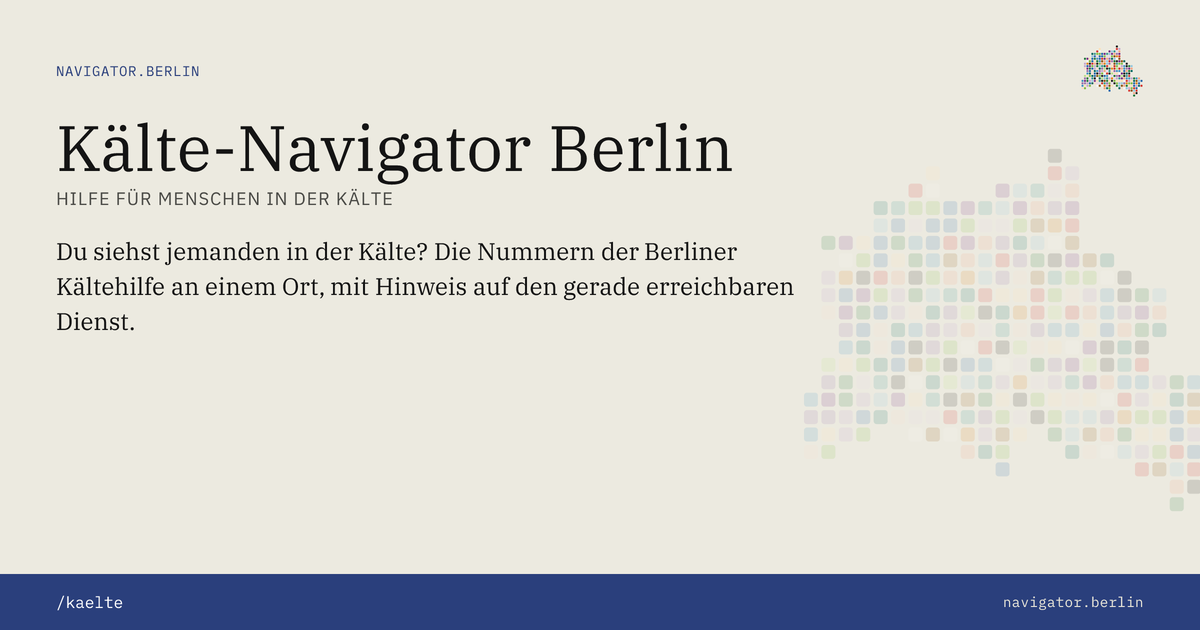
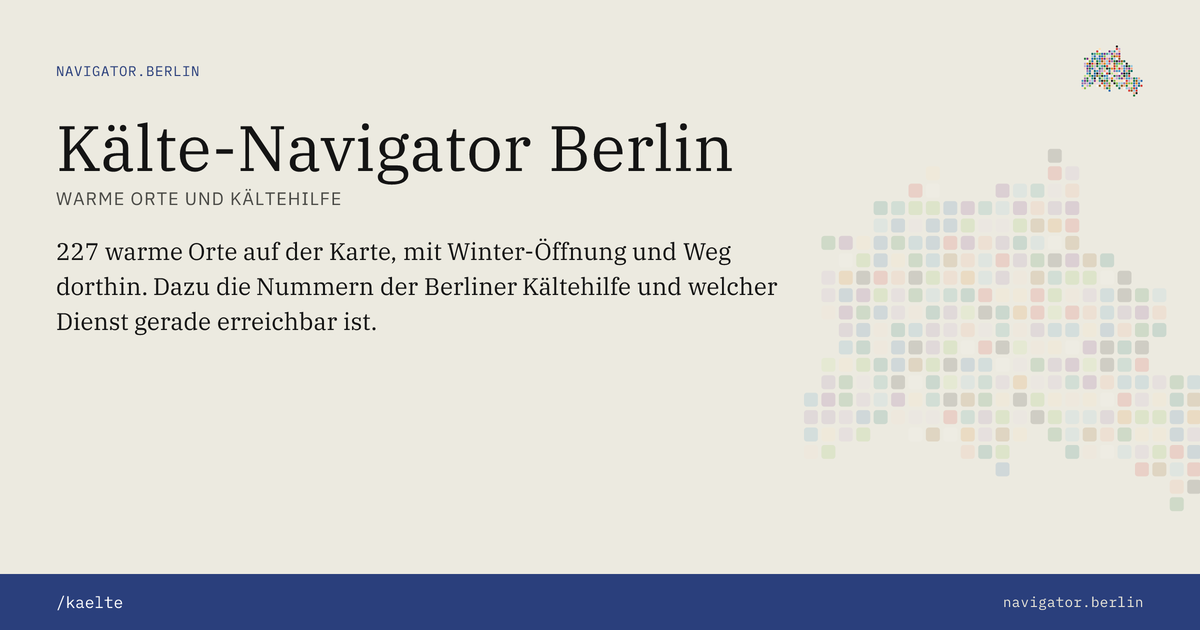
Nenne warme Orte und Karte in Meta und OG des Kälte-Navigators
Titel, Beschreibung und OG-Bild nennen jetzt die 227 warmen Orte auf der
Karte, nicht nur die Kältehilfe-Nummern.

Changed region(s): [[0.0308, 0.3619, 0.6475, 0.5429], [0.0308, 0.3016, 0.3392, 0.3317]]

diff --git a/scripts/generate-og-images.ts b/scripts/generate-og-images.ts
@@ -146,8 +146,8 @@ const PAGE_TARGETS: readonly PageTarget[] = [
 	{
 		slug: 'kaelte',
 		headline: 'Kälte-Navigator Berlin',
-		subline: 'Hilfe für Menschen in der Kälte',
-		body: 'Du siehst jemanden in der Kälte? Die Nummern der Berliner Kältehilfe an einem Ort, mit Hinweis auf den gerade erreichbaren Dienst.',
+		subline: 'Warme Orte und Kältehilfe',
+		body: '227 warme Orte auf der Karte, mit Winter-Öffnung und Weg dorthin. Dazu die Nummern der Berliner Kältehilfe und welcher Dienst gerade erreichbar ist.',
 		footerUrl: '/kaelte'
 	},
 	{
